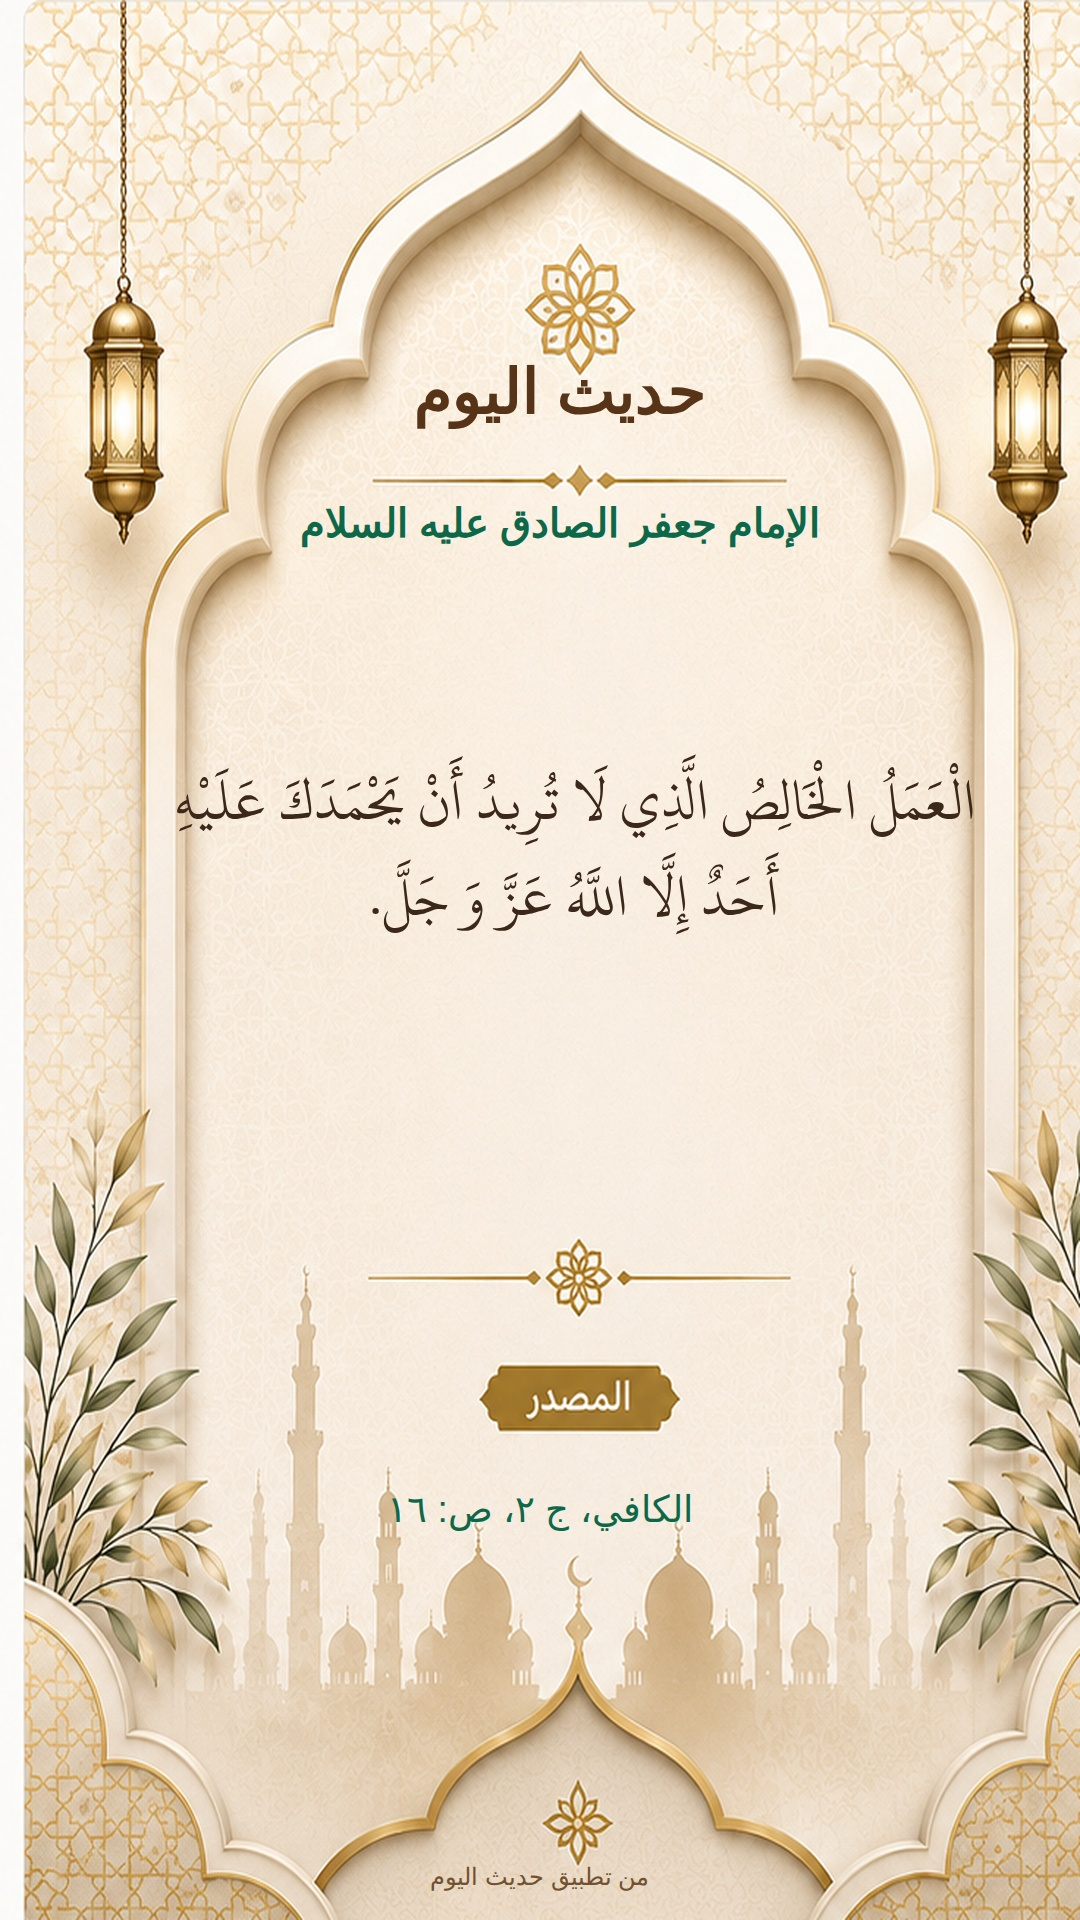
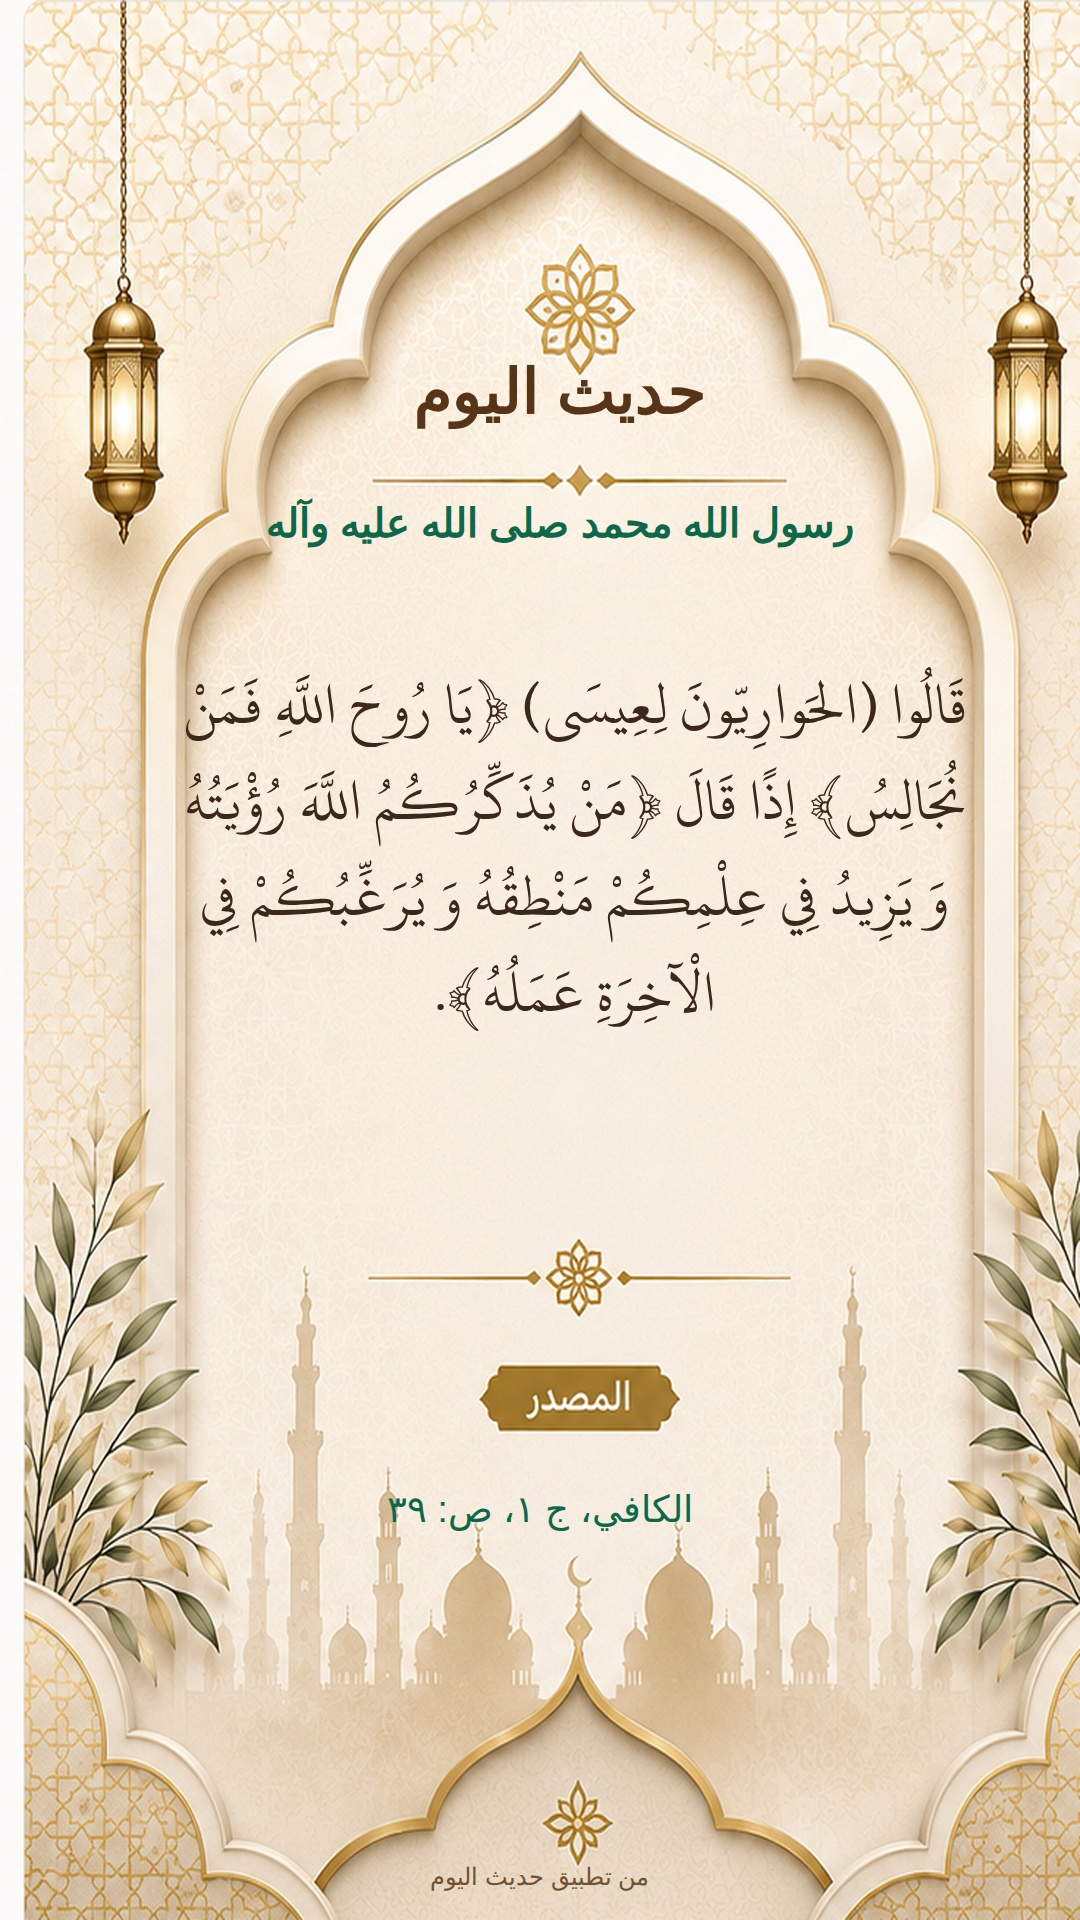
Publish daily Hadith image

diff --git a/output.html b/output.html
@@ -221,21 +221,21 @@
 
     <div class="sayer-box">
       <div class="sayer" id="sayer">
-        الإمام جعفر الصادق عليه السلام
+        رسول الله محمد صلى الله عليه وآله
       </div>
     </div>
 
 
     <div class="hadith-box" id="hadithBox">
       <div class="hadith" id="hadith">
-        الْعَمَلُ الْخَالِصُ الَّذِي لَا تُرِيدُ أَنْ يَحْمَدَكَ عَلَيْهِ أَحَدٌ إِلَّا اللَّهُ عَزَّ وَ جَلَّ.
+        قَالُوا (الحَوارِيّونَ لِعِيسَى) «يَا رُوحَ اللَّهِ فَمَنْ نُجَالِسُ» إِذًا قَالَ «مَنْ يُذَكِّرُكُمُ اللَّهَ رُؤْيَتُهُ وَ يَزِيدُ فِي عِلْمِكُمْ مَنْطِقُهُ وَ يُرَغِّبُكُمْ فِي الْآخِرَةِ عَمَلُهُ».
       </div>
     </div>
 
 
     <div class="reference-box" id="referenceBox">
       <div class="reference" id="reference">
-        <bdi dir="rtl">الكافي، ج ٢، ص: ١٦</bdi>
+        <bdi dir="rtl">الكافي، ج ١، ص: ٣٩</bdi>
       </div>
     </div>
 
